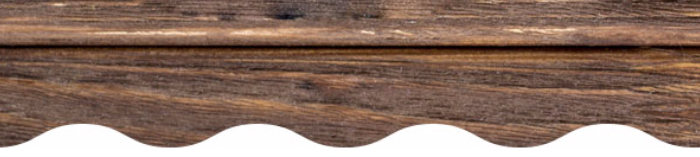
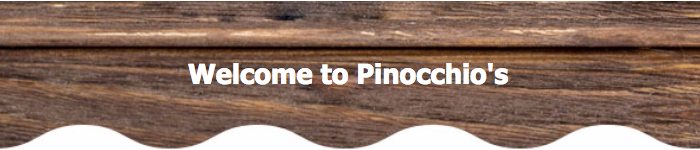
testing new look on welcome and receipt email

diff --git a/orders/templates/email-receipt.html b/orders/templates/email-receipt.html
@@ -8,87 +8,89 @@
 	<body style="background: #f5f8fa;font-family: 'Roboto', sans-serif;">
 		<div style="width: 90%;max-width:600px;margin: 20px auto;background: #ffffff;">
 			<section style="margin: 0 15px;color:#425b76;">
-				<!-- <h2 style="margin: 40px 0 27px 0;text-align: center;">-->
-                <h2>Thanks for your order!</h2>
-				<!--<hr style="border:0;border-top: 1px solid rgba(66,91,118,0.3);max-width: 50%">-->
-				<!--<p style="font-size:15.5px;font-weight: bold;margin:40px 20px 15px 20px;">-->
-                <p>Hi {{username}}, </p>
-                <p>Your order was successfully placed. Here's the details:</p>
+				<div class="container" style="position: relative;text-align: center;color: white;">
+					<img src="https://fast-mountain-47414.herokuapp.com/static/img/order.png" alt="">
+
+				</div>
+				
+
+	        <p>Hi {{username}}, </p>
+	        <p>Your order was successfully placed. Here's the details:</p>
 
 
-                {% for item in CartItems %}
+	        {% for item in CartItems %}
 
-                <!-- Each table row -->
-                <div class="table-row">
+	        <!-- Each table row -->
+	        <div class="table-row">
 
-                  <!-- counter -->
-                  <div class="serial">{{ forloop.counter }}</div>
+	          <!-- counter -->
+	          <div class="serial">{{ forloop.counter }}</div>
 
-                  <!-- type ie pizza or sub -->
-                  <div class="visit">{{ item.type }}</div>
+	          <!-- type ie pizza or sub -->
+	          <div class="visit">{{ item.type }}</div>
 
-                  <!-- dish -->
-                  <div class="visit" style="width: 40%;">{{ item.dish }}
+	          <!-- dish -->
+	          <div class="visit" style="width: 40%;">{{ item.dish }}
 
-                  <!-- show toppings if pizza -->
-                  {% if item.type == 'Sicilian Pizzas' or item.type == 'Regular Pizzas' %}
-                    <br>
-                    {% if item.num_of_topings == 1 %}
-                      w/ {{item.topping1}}
-                    {% endif %}
-                    {% if item.num_of_topings == 2 %}
-                      w/ {{item.topping1}} & {{item.topping2}}
-                    {% endif %}
-                    {% if item.num_of_topings == 3 %}
-                      w/ {{item.topping1}}, {{item.topping2}} & {{item.topping3}}
-                    {% endif %}
-                    {% if item.num_of_topings == 4 %}
-                      w/ {{item.topping1}}, {{item.topping2}}, {{item.topping3}} & {{item.topping4}}
-                    {% endif %}
-                  {% endif %}
+	          <!-- show toppings if pizza -->
+	          {% if item.type == 'Sicilian Pizzas' or item.type == 'Regular Pizzas' %}
+	            <br>
+	            {% if item.num_of_topings == 1 %}
+	              w/ {{item.topping1}}
+	            {% endif %}
+	            {% if item.num_of_topings == 2 %}
+	              w/ {{item.topping1}} & {{item.topping2}}
+	            {% endif %}
+	            {% if item.num_of_topings == 3 %}
+	              w/ {{item.topping1}}, {{item.topping2}} & {{item.topping3}}
+	            {% endif %}
+	            {% if item.num_of_topings == 4 %}
+	              w/ {{item.topping1}}, {{item.topping2}}, {{item.topping3}} & {{item.topping4}}
+	            {% endif %}
+	          {% endif %}
 
-                  <!-- show extras if sub -->
-                  {% if item.type == 'Sub' %}
-                    <br>
-                    {% if item.sub_extras_count == 1 %}
-                      w/ {{ item.extra_1 }}
-                    {% endif %}
+	          <!-- show extras if sub -->
+	          {% if item.type == 'Sub' %}
+	            <br>
+	            {% if item.sub_extras_count == 1 %}
+	              w/ {{ item.extra_1 }}
+	            {% endif %}
 
-                    {% if item.sub_extras_count == 2 %}
-                        w/ {{ item.extra_1 }} & {{ item.extra_2 }}
-                    {% endif %}
+	            {% if item.sub_extras_count == 2 %}
+	                w/ {{ item.extra_1 }} & {{ item.extra_2 }}
+	            {% endif %}
 
-                    {% if item.sub_extras_count == 3 %}
-                        w/ {{ item.extra_1 }}, {{ item.extra_2 }} & {{ item.extra_3 }}
-                    {% endif %}
+	            {% if item.sub_extras_count == 3 %}
+	                w/ {{ item.extra_1 }}, {{ item.extra_2 }} & {{ item.extra_3 }}
+	            {% endif %}
 
-                    {% if item.sub_extras_count == 4 %}
-                        w/ {{ item.extra_1 }}, {{ item.extra_2 }}, {{ item.extra_3 }} & {{ item.extra_4 }}
-                    {% endif %}
+	            {% if item.sub_extras_count == 4 %}
+	                w/ {{ item.extra_1 }}, {{ item.extra_2 }}, {{ item.extra_3 }} & {{ item.extra_4 }}
+	            {% endif %}
 
-                  {% endif %}
+	          {% endif %}
 
-                  </div>
+	          </div>
 
 
-                  <!-- show a - if the item has no size (salads and pasta) -->
-                  {% if item.size == "unique" %}
-                    <div class="visit">-</div>
-                  {% else %}
-                    <div class="visit">{{ item.size }}</div>
-                  {% endif %}
+	          <!-- show a - if the item has no size (salads and pasta) -->
+	          {% if item.size == "unique" %}
+	            <div class="visit">-</div>
+	          {% else %}
+	            <div class="visit">{{ item.size }}</div>
+	          {% endif %}
 
-                  <!-- price -->
-                  <div class="serial">{{ item.price|floatformat:2 }}</div>
+	          <!-- price -->
+	          <div class="serial">{{ item.price|floatformat:2 }}</div>
 
-                  <!-- an extra line for aesthetics-->
-                  <br>
+	          <!-- an extra line for aesthetics-->
+	          <br>
 
-                <!-- finish the loop for cart items -->
-                {% endfor %}
+	        <!-- finish the loop for cart items -->
+	        {% endfor %}
 
-              <!-- final thank you note for the email -->
-              <p>Thank's for choosing Pinocchio's. Enjoy!</p>
+	      <!-- final thank you note for the email -->
+	      <p>Thank's for choosing Pinocchio's. Enjoy!</p>
 
 			</section>
 		</div>

diff --git a/users/templates/email.html b/users/templates/email.html
@@ -4,29 +4,13 @@
 		<meta charset="utf-8">
 		<title></title>
 
-		<style>
-		.centered {
-			position: absolute;
-			top: 50%;
-			left: 50%;
-			transform: translate(-50%, -50%);
-			color: white;
-		}
-
-
-		</style>
 	</head>
-
-
 	<body style="background: #f5f8fa;font-family: 'Roboto', sans-serif;">
 		<div style="width: 90%;max-width:600px;margin: 20px auto;background: #ffffff;">
-			<section style="margin: 0 15px;color:#425b76;">
+			<section style="color:#425b76;">
 
 				<div class="container" style="position: relative;text-align: center;color: white;">
 					<img src="https://fast-mountain-47414.herokuapp.com/static/img/wood.png" alt="">
-					<h2 class="centered" style="position: absolute;top: 50%;left: 50%;transform: translate(-50%, -50%);color: white;">Welcome to Pinocchio's</h2>
-
-
 
 				</div>
 
@@ -37,7 +21,7 @@
 					<p>at the delicious things in our <a href="https://fast-mountain-47414.herokuapp.com/menu/">menu</a>?</p>
 					<br>
 					<p>Bon apetit!</p>
-					<p>Your friends at Pinocchio's Pizza</p>
+					<p>Your friends at Pinocchio's</p>
 				</div
 
 

diff --git a/orders/templates/registration/password_reset_email.html b/orders/templates/registration/password_reset_email.html
@@ -1,5 +1,9 @@
 {% load i18n %}{% autoescape off %}
-{% blocktrans %}You're receiving this email because you requested a password reset for your user account at Pinocchio's.{% endblocktrans %}
+{% blocktrans %}
+
+You're receiving this email because you requested a password reset for your user account at Pinocchio's.
+
+{% endblocktrans %}
 
 {% trans "Please go to the following page and choose a new password:" %}
     {% block reset_link %}
